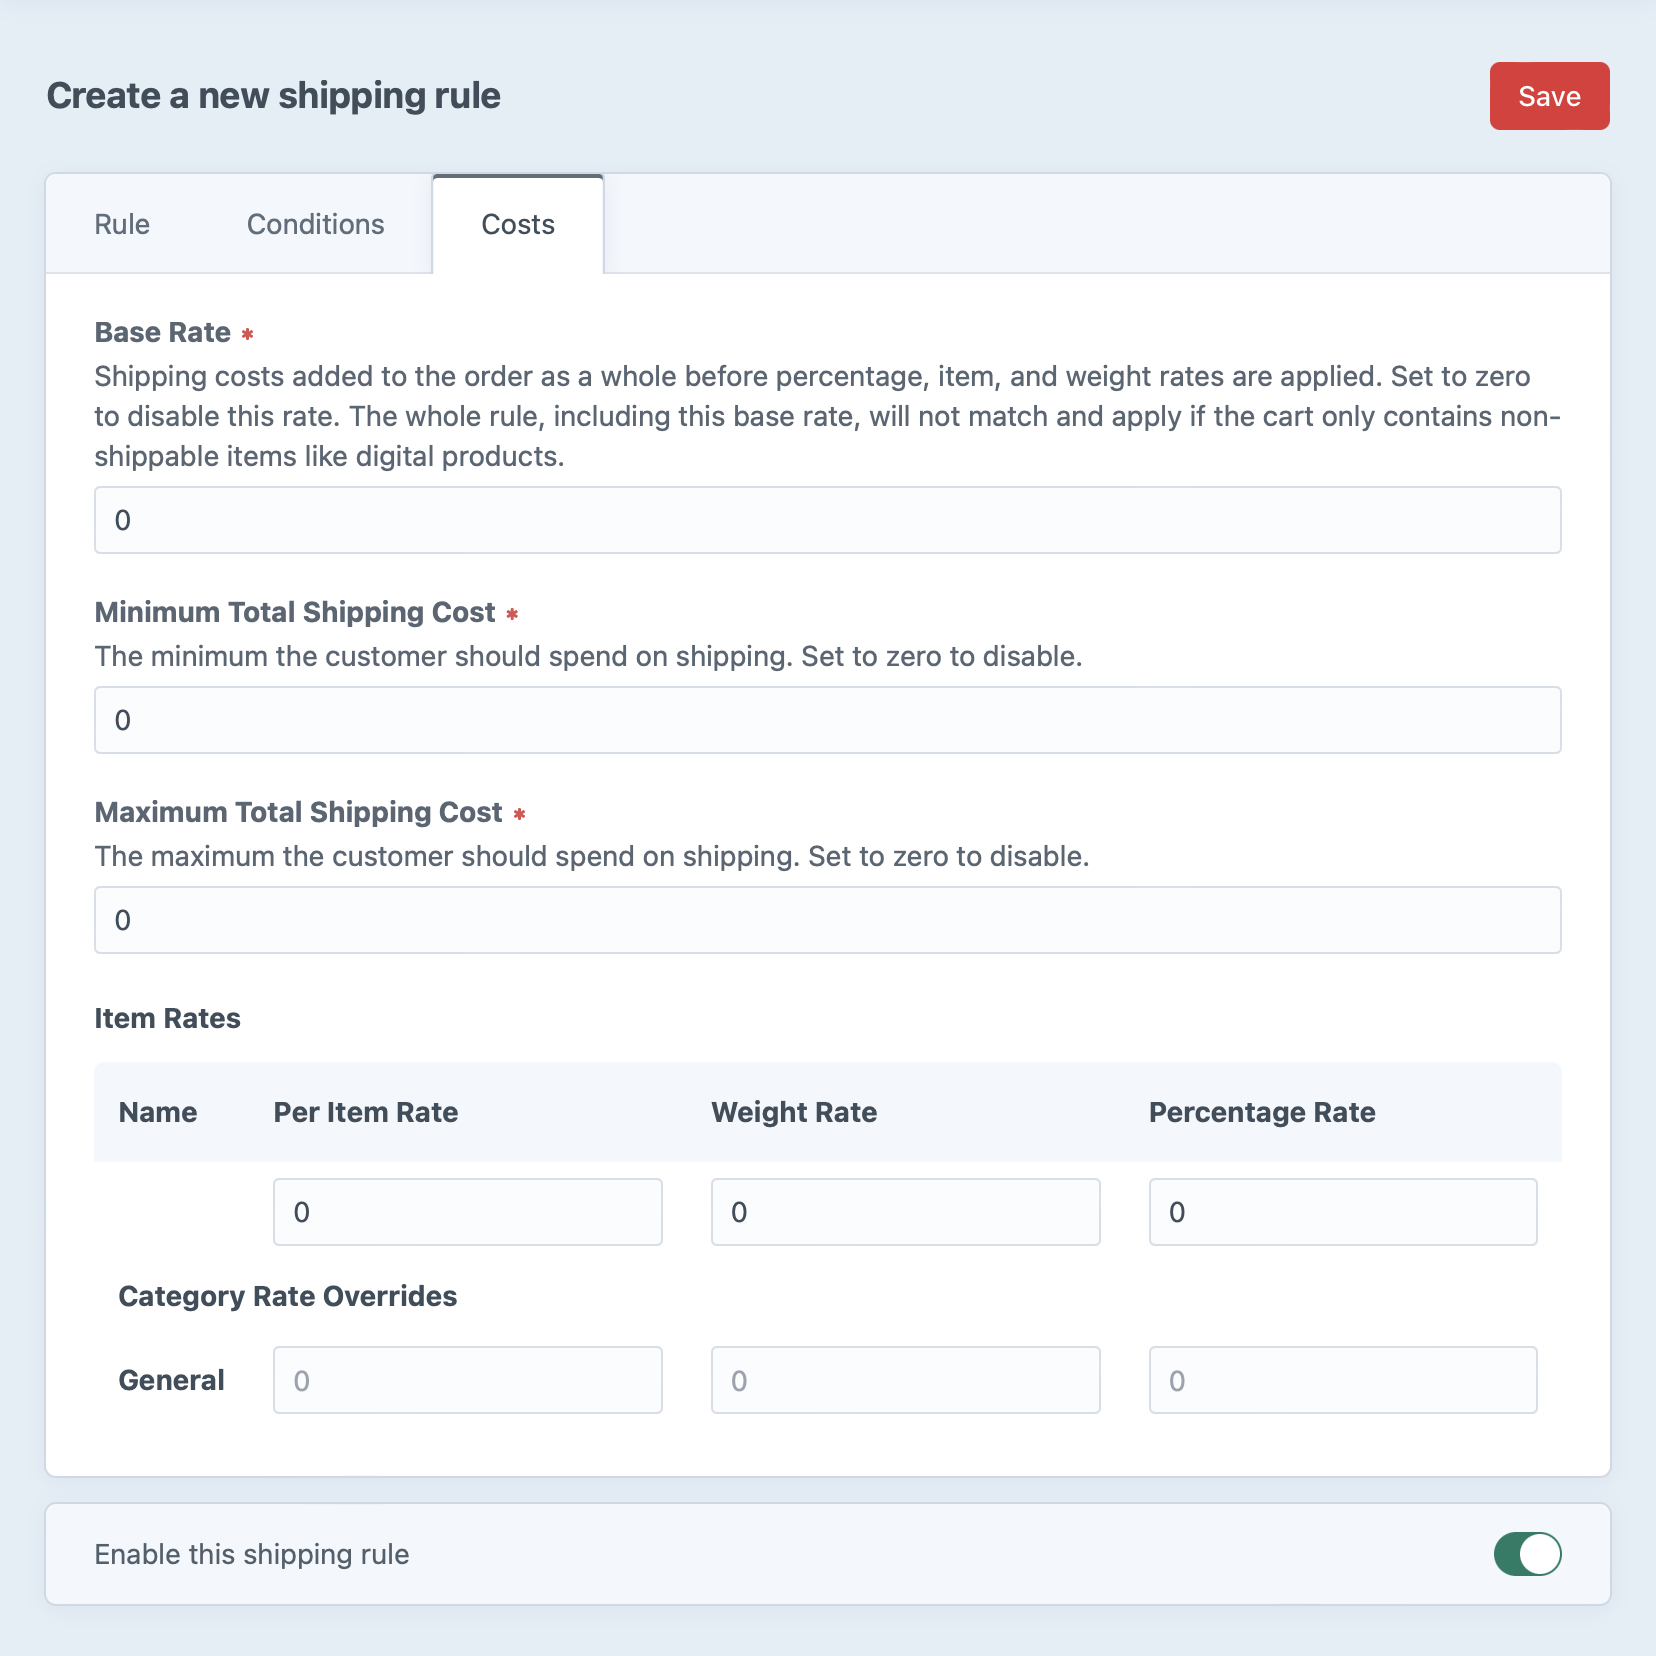
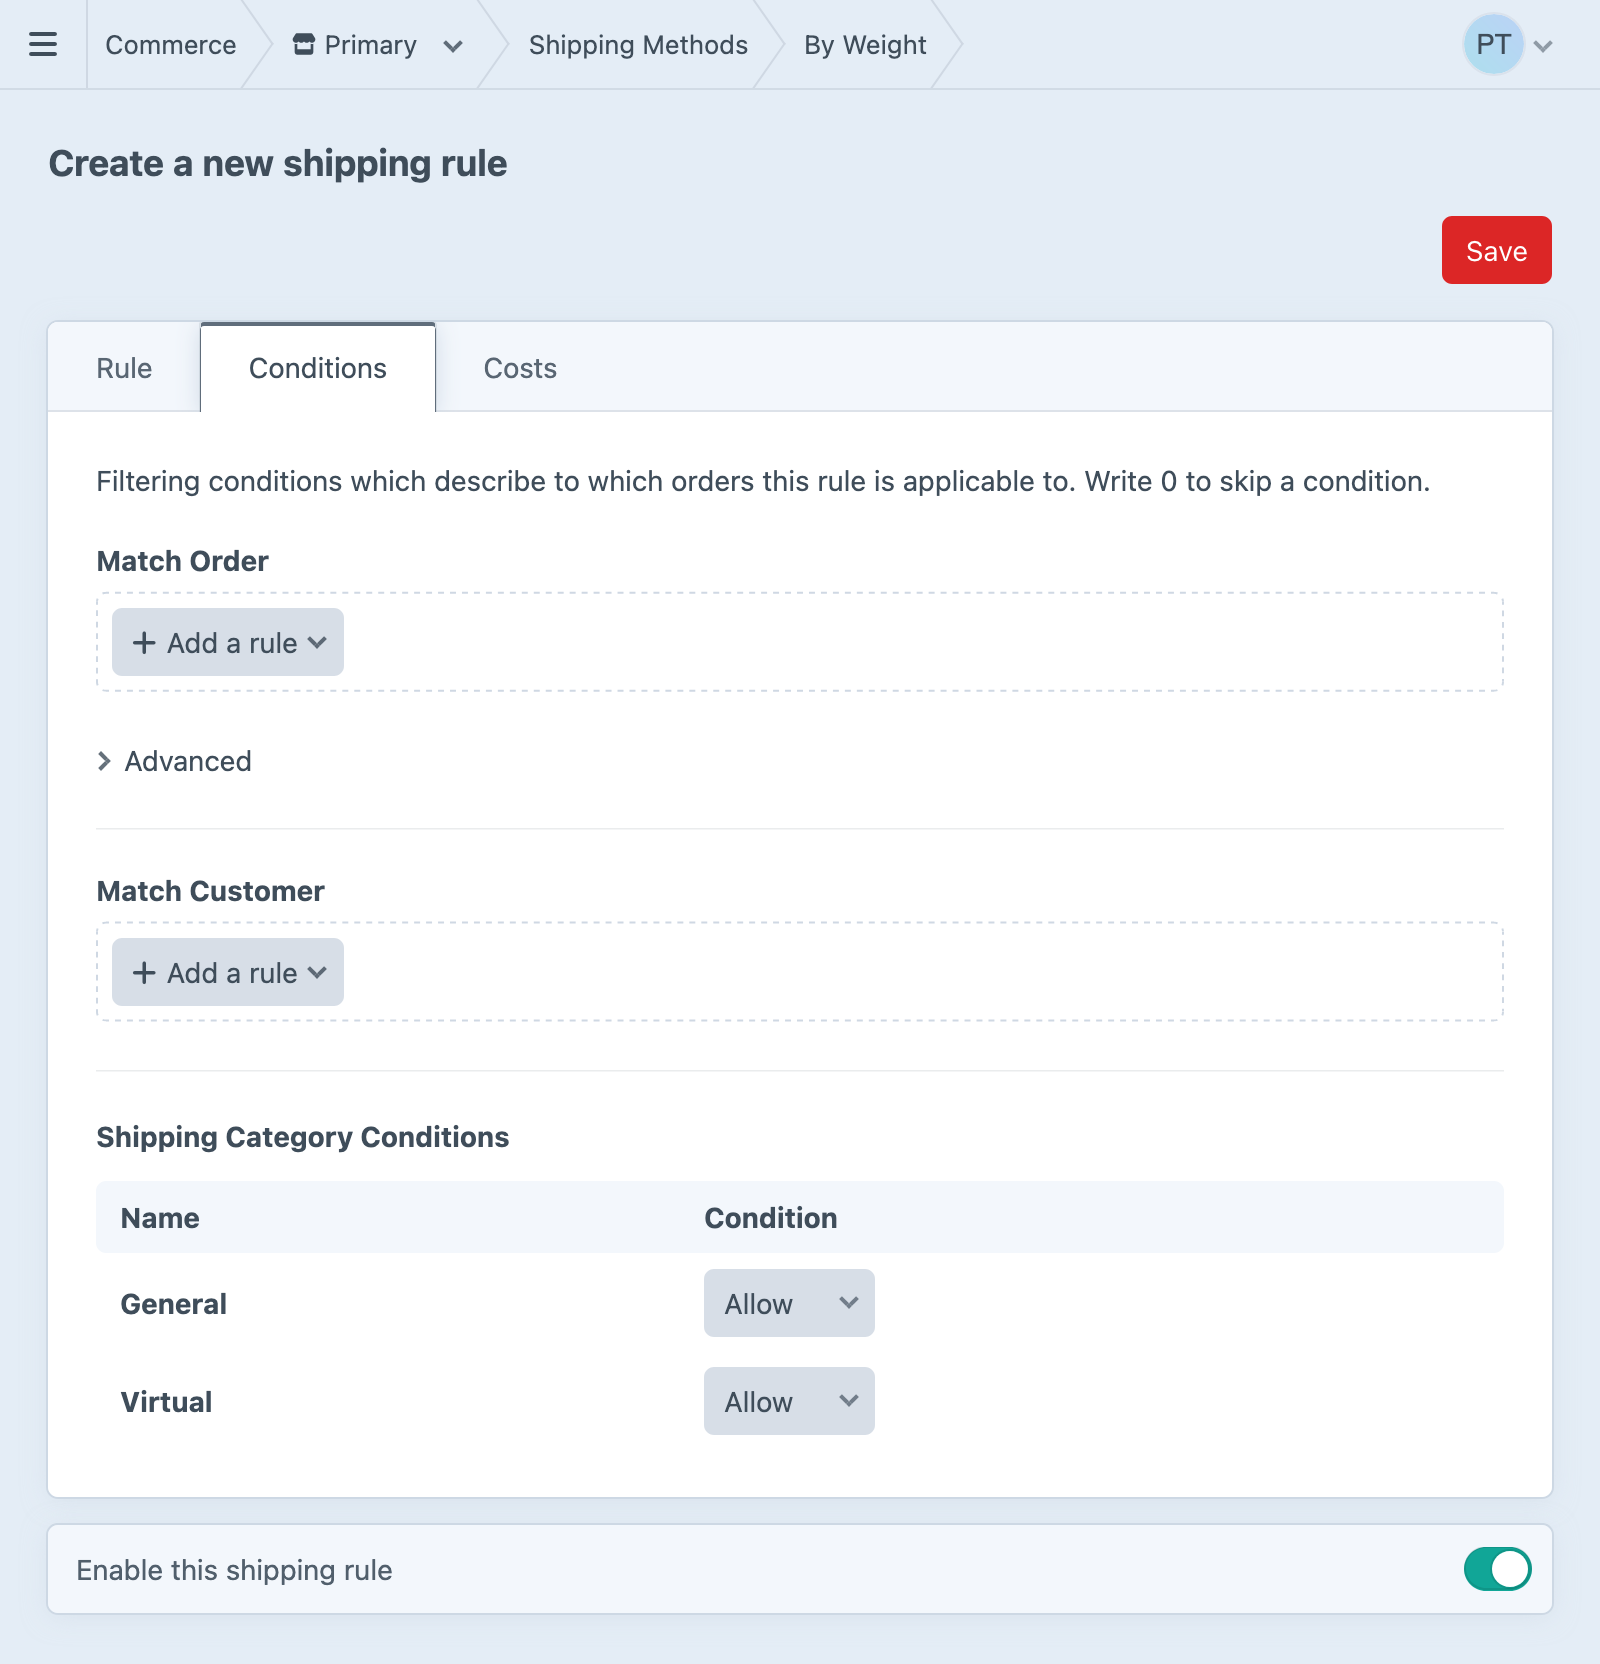
Commerce 5.4: Shipping conditions

diff --git a/docs/.vuepress/theme/global-components/XMark.vue b/docs/.vuepress/theme/global-components/XMark.vue
@@ -11,7 +11,7 @@
       verticalAlign: inline ? 'middle' : null,
     }"
     viewBox="0 0 352 512"
-    fill="#6b7280"
+    fill="#e5422b"
   >
         <path d="M242.72 256l100.07-100.07c12.28-12.28 12.28-32.19 0-44.48l-22.24-22.24c-12.28-12.28-32.19-12.28-44.48 0L176 189.28 75.93 89.21c-12.28-12.28-32.19-12.28-44.48 0L9.21 111.45c-12.28 12.28-12.28 32.19 0 44.48L109.28 256 9.21 356.07c-12.28 12.28-12.28 32.19 0 44.48l22.24 22.24c12.28 12.28 32.2 12.28 44.48 0L176 322.72l100.07 100.07c12.28 12.28 32.2 12.28 44.48 0l22.24-22.24c12.28-12.28 12.28-32.19 0-44.48L242.72 256z"></path>
   </svg>

diff --git a/docs/commerce/5.x/system/shipping.md b/docs/commerce/5.x/system/shipping.md
@@ -2,10 +2,6 @@
 
 Craft Commerce includes a shipping system for adding shipping costs to a cart.
 
-::: warning
-Prior to version 4.5, [shipping features differ](#edition-differences) between Commerce editions.
-:::
-
 You can add any number of [shipping methods](#shipping-methods) to your store, where each one’s purpose is to supply relevant *shipping options* for an order at checkout.
 
 The shipping method determines relevant options with its [shipping rules](#shipping-rules) and the store’s [shipping categories](#shipping-categories) and [shipping zones](#shipping-zones) configured in the control panel.
@@ -63,11 +59,11 @@ postalCode in ['NG102', 'ZZ200', 'CC101']
 
 ## Shipping Methods
 
-Shipping methods are the choices available to the customer during checkout. For example, a shipping method might be called “Pickup”, “FedEx”, “USPS”, or “Express”.
+Shipping methods are the choices available to the customer during checkout. You can name them in whatever way will make sense to your customers: _In-Store Pickup_, _FedEx_, _USPS_, _Freight_, and _Express_ are all succinct ways to describe the general method by which the customer will get their order.
 
-You can name these shipping methods anything that makes sense to the customer. They don’t need to be shipping company names, but usually indicate the delivery method. For example, you could have two shipping methods: one called “FedEx Standard” and “FedEx Overnight”.
+Shipping methods contain a collection of [shipping rules](#shipping-rules), which contribute eligibility conditions and determine the actual costs.
 
-Shipping methods contain a collection of shipping rules, which are conditions for determining when the shipping method should be available.
+Additionally, **Match Order** and **Match Customer** <Since ver="5.4.0" product="Commerce" repo="craftcms/commerce" feature="Customer conditions for shipping methods" /> conditions can be set on the method itself to consolidate some rules.
 
 ::: warning
 If a customer changes their shipping address during checkout, a previously selected shipping method may no longer match and will be immediately removed as the shipping method set on the cart.
@@ -75,23 +71,27 @@ If a customer changes their shipping address during checkout, a previously selec
 
 ## Shipping Rules
 
-Shipping rules belong to a shipping method and may be edited in that shipping method’s “Rules” tab after it’s first saved. Each rule is checked one by one, in order, against the cart to see if it’s a match. The first rule that matches the cart supplies the pricing to the shipping method. If no rules match the cart, that shipping method is not available for the customer to select.
+Shipping rules belong to a shipping method and may be edited in that shipping method’s **Rules** tab after it’s first saved. Each rule is checked one by one, in order, against the cart (and the customer <Since ver="5.4.0" product="Commerce" repo="craftcms/commerce" feature="Customer conditions for shipping methods" />) to see if it’s a match. The first rule that matches the cart supplies the pricing to the shipping method. If no rules match the cart, that shipping method is not available for the customer to select.
 
-## Shipping Rule Conditions
+### Conditions
 
-The matching of the shipping rules to the cart is based on the following rules conditions:
+Each rule uses **Match Order** and **Match Customer** <Since ver="5.4.0" product="Commerce" repo="craftcms/commerce" feature="Customer conditions for shipping rules" /> conditions to determine when a shipping rule is used.
 
-![A default Shipping Method Rule Conditions form.](../images/shipping-method-conditions.png)
+![A new shipping method rule, with no conditions defined.](../images/shipping-method-conditions.png)
+
+::: tip
+If a [shipping method](#shipping-methods) doesn’t include any conditions, each of its rules will be checked.
+:::
 
 ### Shipping Zone
 
-Each shipping rule can have a single zone. This condition is met if the order’s shipping address falls within this zone.
+In earlier version of Commerce, each rule could be connected to a single **Shipping Zone**. This setting was migrated during the upgrade to a **Shipping Address Zone** order condition; you may now select any number of zones that the shipping address must be part of (or not part of).
 
 ### Order Condition Formula
 
-An optional condition for specifying criteria for the shipping method to be available for selection.
+For advanced conditions, you may provide a Twig expression via the **Order Condition Formula** field. Whenever possible, we recommend using the dedicated condition builder UIs.
 
-The condition formula can use an `order` variable, which for safety is an array and not the order element—it’s the same representation of the order you’d see if you exported it from the order index page. This data-only format prevents a store manager from accidentally calling methods like `order.markAsComplete()`.
+The condition formula has access to an `order` variable, which (for safety) is an array and not the order element—it’s the same representation of the order you’d see if you exported it from the order index page. This data-only format prevents a store manager from accidentally calling methods like `order.markAsComplete()`.
 
 ::: tip
 The condition formula’s `order` array is generated with:
@@ -103,31 +103,19 @@ $order->toArray(
 ```
 :::
 
-### Order Total Quantity
-
-This condition is met if the order has at least and/or at most a certain number of items.
-
-### Order Total Value
-
-This condition is met if the total order price is at least and/or at most a certain amount.
-
-### Order Total Weight
-
-This condition is met if the total order weight is at least and/or at most a certain amount.
-
 ### Shipping Categories
 
-The shipping rule has options for each category in the system. Each shipping category can be set to:
+The shipping rule has matching logic for each shipping category in the system. Your selection describes whether the rule **Allow**s, **Disallows**, or **Requires** products of the category to be in the cart:
 
-1. **Allow**: products can be allowed for this shipping method.
-2. **Disallow**: if products are found in the cart the rule will not match the cart.
-3. **Require**: products must exist in the cart for this rule to match.
+1. **Allow** (Default): The rule _may_ match carts with products in this category.
+2. **Disallow**: The rule will _not_ match carts that contain products in this category.
+3. **Require**: The rule will _only_ match if the cart contains products in this category.
 
-This rule can allow, disallow, or require certain products to match this rule.
+Category policies ensure that the available methods and costs accurately reflect the combined needs of the ordered products. For example, if you sell products with lithium batteries, many carriers require disclosures, insurance, special packaging, or other documentation that often increases costs. By setting up a shipping category for potentially-hazardous materials, you can easily exclude other unsuitable methods.
 
 ## Shipping Rule Costs
 
-![A default Shipping Method Rule Costs form.](../images/shipping-method-costs.png)
+![A new shipping method rule.](../images/shipping-method-costs.png)
 
 ### Base Rate
 
@@ -163,58 +151,31 @@ You can further customize the Per Item, Weight, and Percentage rates in each cat
 
 There are lots of ways you might combine the included shipping rules depending on what matters most for your store.
 
-For example, some stores may sell relatively uniform items that ship to a number of specific **areas**. In this case, the shipping configuration will depend heavily on zones and rules that ensure the right shipping methods are available for each target zone.
+- **Regional Sales** — Some stores may sell relatively uniform items, but ship to many well-defined **areas** using local couriers’ flat-rate services. In this case, the shipping configuration will depend heavily on shipping zones to ensure customers see only methods that are actually available in their region.
+- **Diverse Catalog** — Another store may have huge **variety in product types** that require radically different types of shipping and handling. This store’s shipping configuration will likely lean on shipping categories to narrow options, and use weight- or quantity-based rules to calculate costs.
+- **Speed** — Customers often want options when it comes to shipping speed and cost. This store may wish to advertise services from many carriers, while ensuring the total order weight doesn’t exceed the carrier’s limits.
 
-Another type of store may have broad **variation in product types**, from a pack of stickers to a refrigerator that may require a radically different type of shipping. This store’s shipping configuration will likely emphasize shipping prices per product type.
-
-Yet another store may place more importance on providing a **broad range of delivery methods**, meaning its shipping configuration will rely heavily on categories and rules across a significant number of shipping methods.
-
-It’s best to identify whatever aspect of the store’s shipping is most complex or specific, and plan around that concern with whatever features need to support it.
-
-## Edition Differences
-
-<Block label="Commerce Edition Changes">
-
-With the release of Commerce 4.5, Lite and Pro editions have been merged. This section discusses differences in earlier versions of the plugin.
-
-</Block>
-
-In the Lite edition of Craft Commerce only two fixed shipping costs can be configured:
-
-1. A single fixed per-order shipping cost
-2. A per-item fixed shipping cost
-
-These shipping cost settings can be updated in **Commerce** → **Settings** → **General**, and show up on every order made when running the Lite edition of Craft Commerce. You can set these to zero if no shipping costs need to be added to the order.
-
-In the Pro edition of Commerce, complex shipping rules including categories, zones and rules are available. The core components of the shipping system are:
-
-- Shipping categories
-- Shipping zones
-- Shipping methods and rules
-
-Shipping methods and rules are at the core of the shipping engine in the Pro edition of Craft Commerce. The shipping rules use shipping categories, shipping zones, and additional order conditions to determine which shipping methods are available to the cart for customer selection.
-
-::: tip
-See the [Shipping Methods](../extend/shipping-methods.md) page in the _Extending Commerce_ section to learn how to write your own custom shipping method.
-:::
+It’s best to identify aspects of the store’s shipping is most complex or specific, and plan around that concern with whatever features support it.
 
 ## Templating
 
-### cart.availableShippingMethodOptions
+### Displaying the Available Shipping Methods
 
 Returns the shipping method options available for the current cart. Some shipping methods may not be included, as only those whose rules apply to the current cart will be returned.
 
 ```twig
+<h3>Select a shipping method</h3>
+
 {% for handle, method in cart.availableShippingMethodOptions %}
-  {% set isCurrentSelection = handle == cart.shippingMethodHandle %}
   {% set formattedPrice = method.priceForOrder(cart)|currency(cart.currency) %}
+
   <label>
-    <input type="radio"
-      name="shippingMethodHandle"
-      value="{{ handle }}"
-      {{ isCurrentSelection ? ' checked' : '' }}
-    />
+    {{ input('radio', 'shippingMethodHandle', handle, {
+      checked: handle == cart.shippingMethodHandle,
+    }) }}
     <strong>{{ method.name }}</strong> {{ formattedPrice }}
   </label>
 {% endfor %}
 ```
+
+Customers select a shipping _method_, not a _rule_. The rule is only used for matching against the cart, but does ultimately determine the cost.
